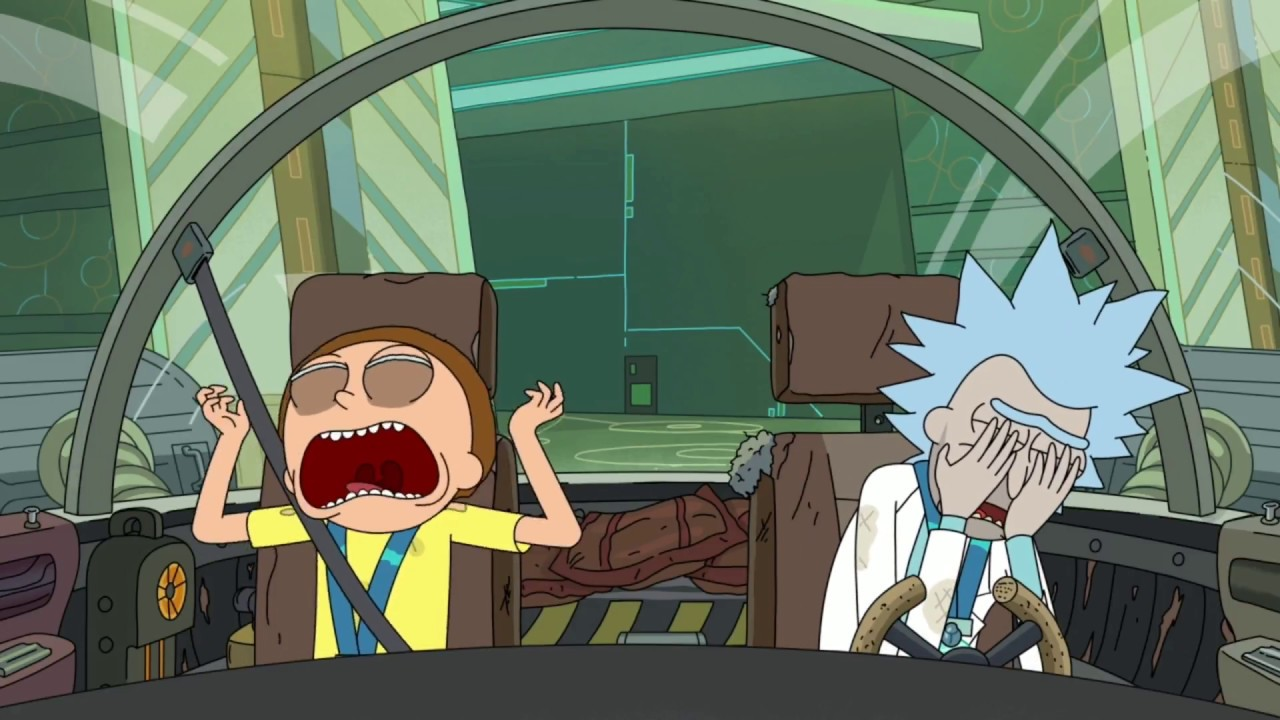
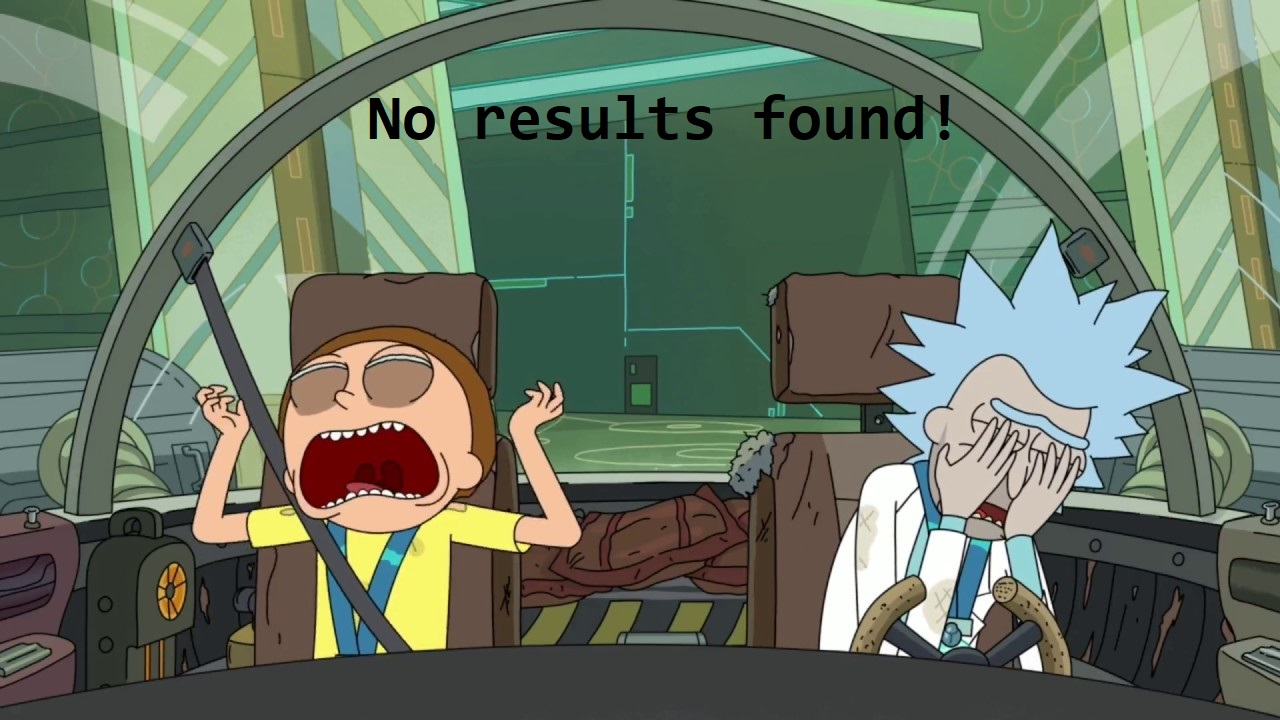
add link to go back home from results not found

Changed region(s): [[0.5938, 0.1222, 0.75, 0.2139], [0.375, 0.1222, 0.5625, 0.2139], [0.2812, 0.1222, 0.3438, 0.2139]]

diff --git a/src/components/CharacterList.js b/src/components/CharacterList.js
@@ -6,14 +6,18 @@ import image from '../images/noresults.jpg';
 const CharacterList = (props) => {
   if (props.characters.length === 0) {
     return (
-      <div className="container-results">
-        <p>No results found!</p>
-        <img
-          src={image}
-          alt="No results founded"
-          title="No results founded"
-        ></img>
-      </div>
+      <>
+        <div className="container-results">
+          <Link to="/" className="linkresults">
+            Home
+          </Link>
+          <img
+            src={image}
+            alt="No results founded"
+            title="No results founded"
+          ></img>
+        </div>
+      </>
     );
   }
   const html = props.characters.map((item) => (

diff --git a/src/stylesheets/App.scss b/src/stylesheets/App.scss
@@ -91,7 +91,7 @@
 .input {
   height: 50px;
   font-size: 25px;
-  margin-top: 50px;
+  margin: 25px 0 25px 0;
   width: 700px;
 }
 
@@ -124,6 +124,10 @@
 }
 .container-results {
   text-align: center;
+}
+.linkresults {
+  background-color: yellowgreen;
+  margin-right: 50px;
 }
 
 @keyframes startButton {
